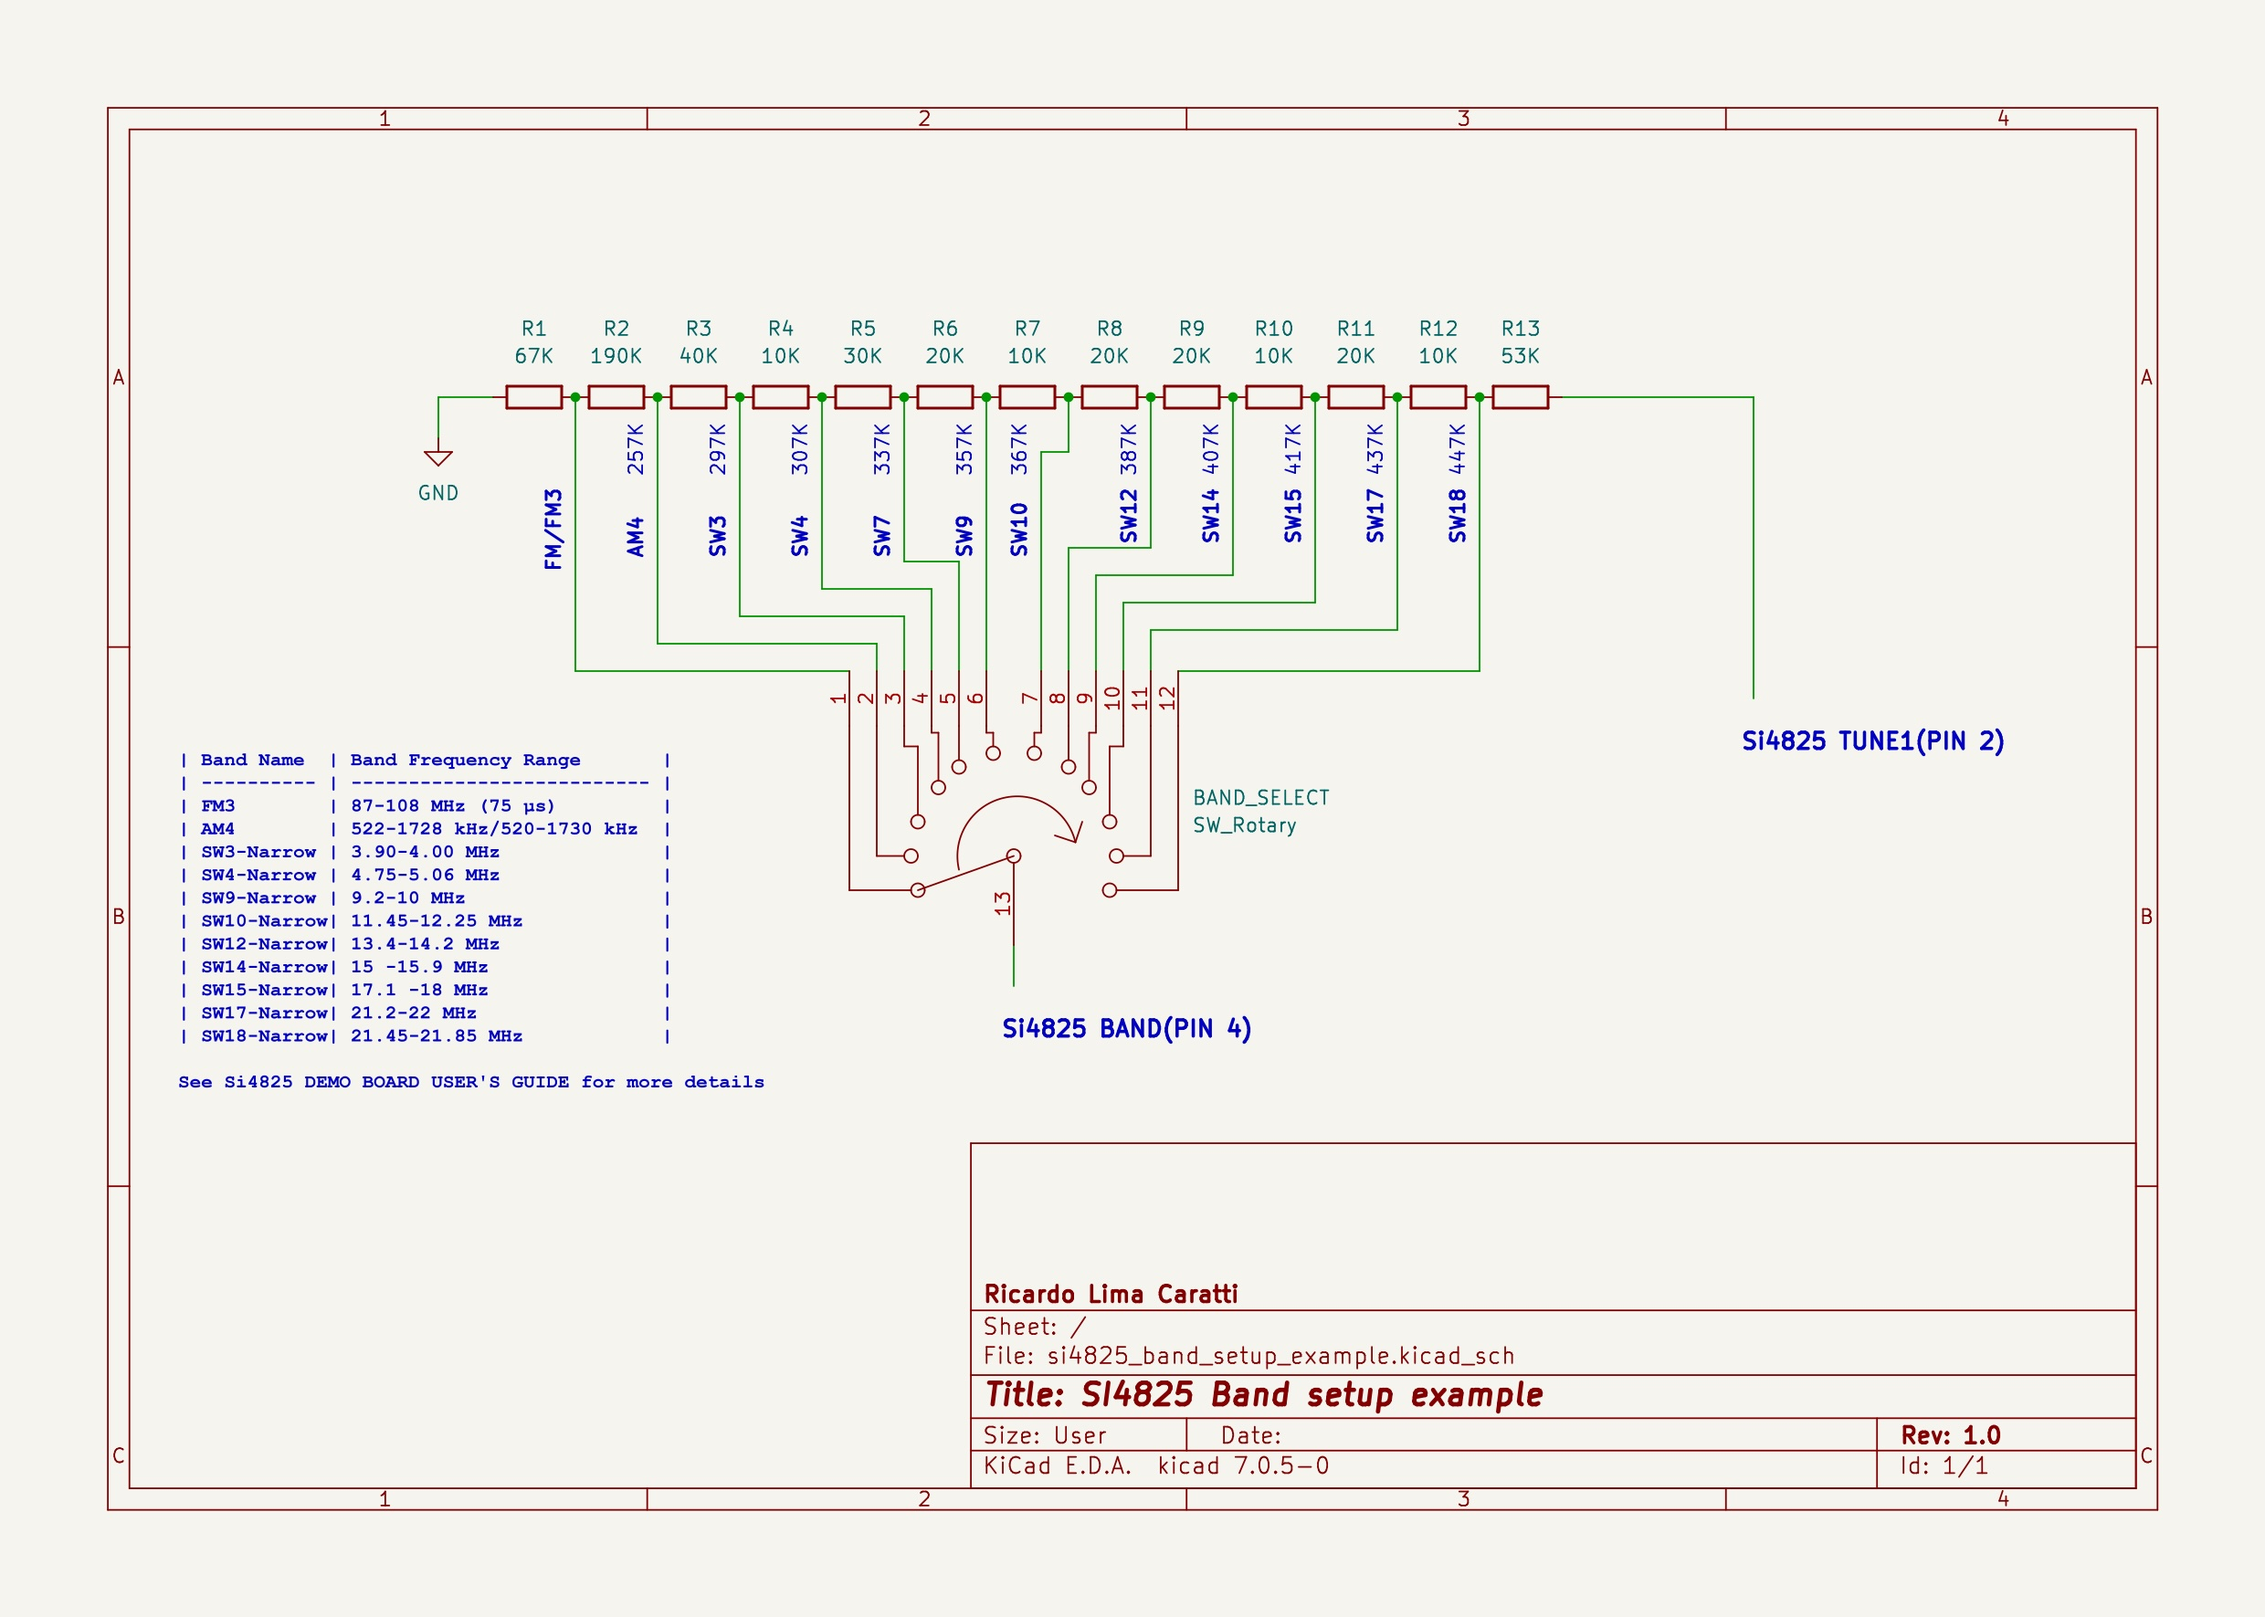
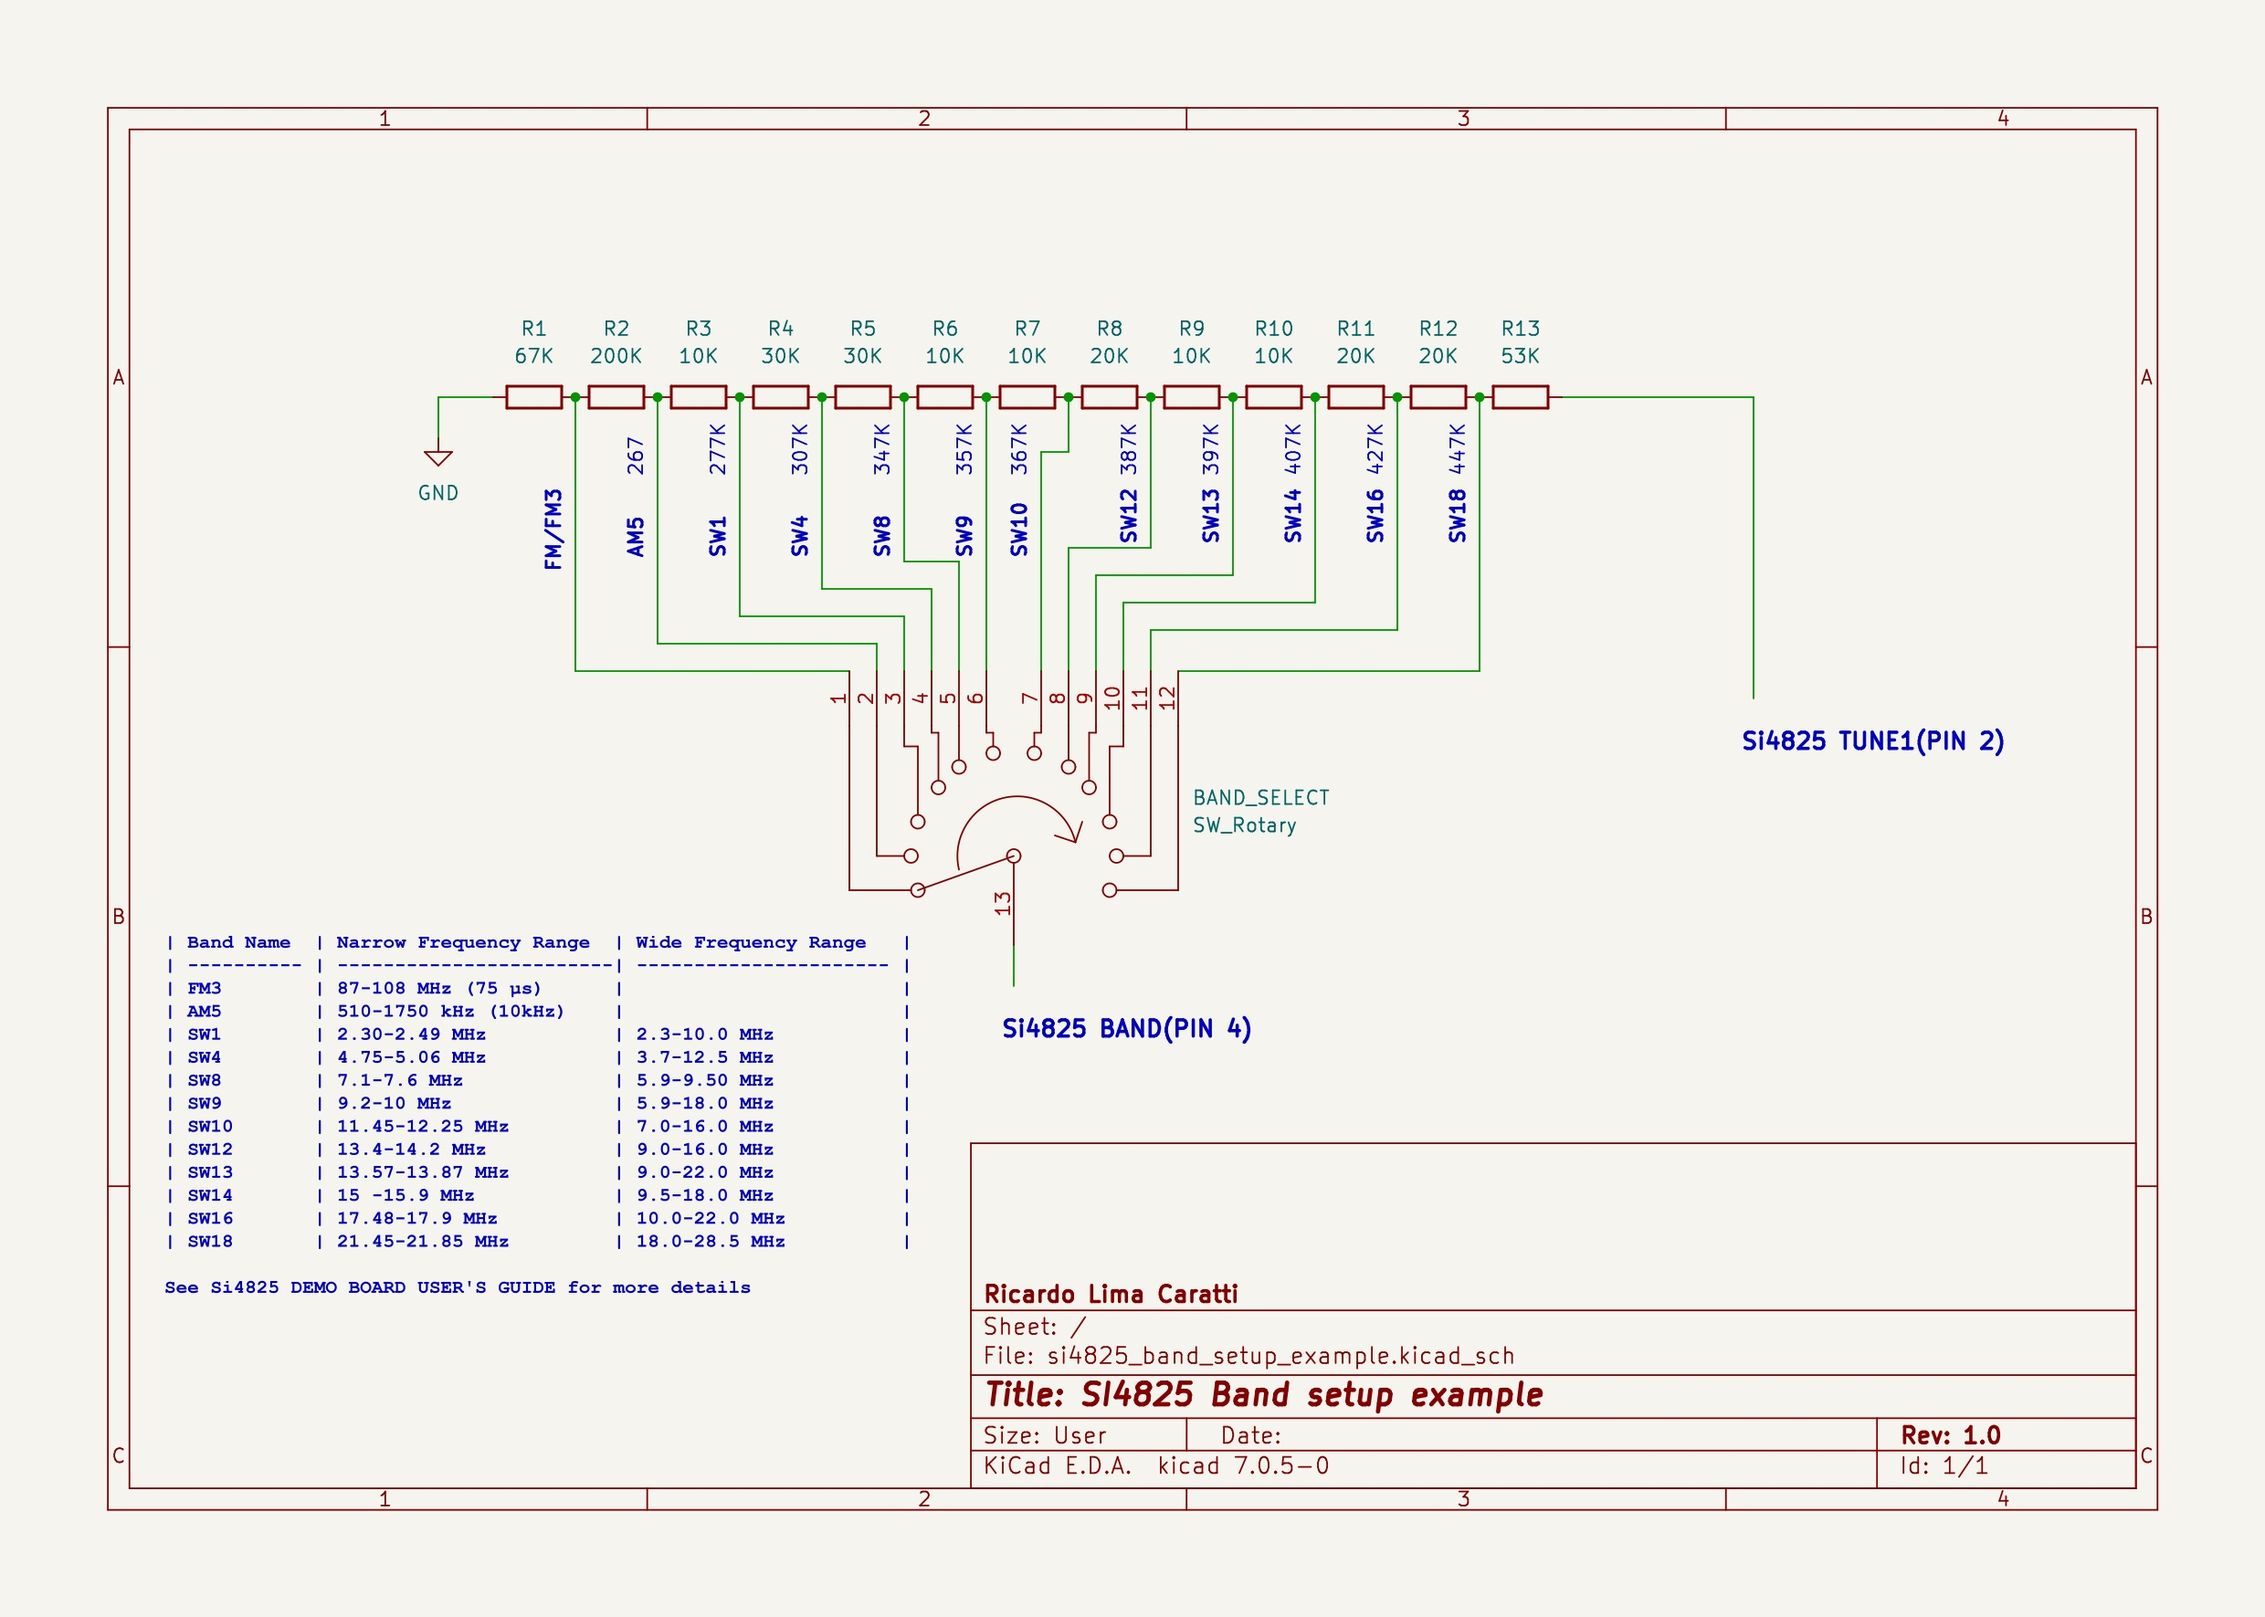
Doc

Changed region(s): [[0.0621, 0.4658, 0.3415, 0.8075], [0.2794, 0.559, 0.3726, 0.5901]]

diff --git a/custom_band_tamble.md b/custom_band_tamble.md
@@ -1,0 +1,16 @@
+| Band Name  | Narrow Frequency Range  | Wide Frequency Range   |
+| ---------- | ------------------------| ---------------------- |
+| FM3        | 87-108 MHz (75 µs)      |                        |
+| AM5        | 510-1750 kHz (10kHz)    |                        |
+| SW1        | 2.30-2.49 MHz           | 2.3-10.0 MHz           |
+| SW4        | 4.75-5.06 MHz           | 3.7-12.5 MHz           |
+| SW8        | 7.1-7.6 MHz             | 5.9-9.50 MHz           |
+| SW9        | 9.2-10 MHz              | 5.9-18.0 MHz           |
+| SW10       | 11.45-12.25 MHz         | 7.0-16.0 MHz           |
+| SW12       | 13.4-14.2 MHz           | 9.0-16.0 MHz           |
+| SW13       | 13.57-13.87 MHz         | 9.0-22.0 MHz           |
+| SW14       | 15 -15.9 MHz            | 9.5-18.0 MHz           |
+| SW16       | 17.48-17.9 MHz          | 10.0-22.0 MHz          |
+| SW18       | 21.45-21.85 MHz         | 18.0-28.5 MHz          |
+
+See Si4825 DEMO BOARD USER'S GUIDE for more details
